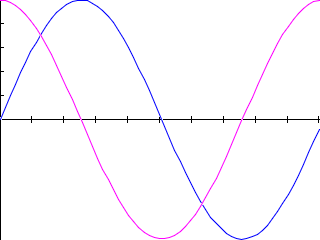
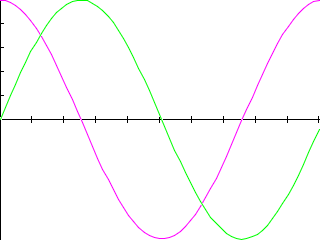
update readme, clean out warnings

diff --git a/README.md b/README.md
@@ -22,10 +22,10 @@ srf.saveTo("example1.png")
 
 ![sines](examples/example2.png)
 ```nim
-import graph, 
-       graph/draw, # Exposes drawFunc
-       graph/funcs # Exposes sin, cos, linspace
-import math,sequtils
+import graph,
+       graph/draw,
+       graph/funcs # has the sin(openarray):openarray def
+import math
 
 let xx = linspace(0.0, 2*Pi, 0.1) 
 
@@ -34,6 +34,9 @@ var srf = plotXY(xx,sin(xx),Blue)
 
 # Draw a cos over the surface
 srf.drawFunc(xx,cos(xx), Purple)
+
+# Pass the proc (eg ``sin``) to be mapped to xx so that yy=sin(xx)
+srf.plotProc(xx, sin, Green)
 
 # Save to file
 srf.saveTo("example2.png")
@@ -47,6 +50,8 @@ import math,sequtils
 proc ln(x:seq[float]):seq[float] =
   x.mapit(ln(it))
 ```
+Alternatively, if you have a map `proc(T)->T`, you can just use
+`plotProc`, see [example2](examples/example2.nim)
 
 ## Current structure
 - **graph**: exposes linspace, plotXY and saveSurfaceTo ( basic functionality )
